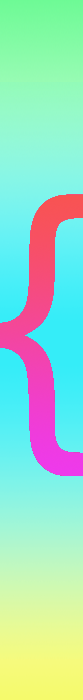
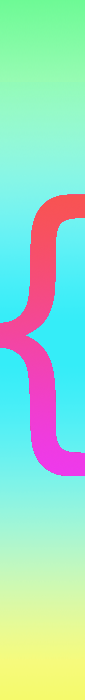
skobki

diff --git a/Homework/HM2/skob/skob.html b/Homework/HM2/skob/skob.html
@@ -4,30 +4,40 @@
 	<meta charset="UTF-8">
 	<meta http-equiv="X-UA-Compatible" content="IE=edge">
 	<meta name="viewport" content="width=device-width, initial-scale=1.0">
-	<title>Skob</title>
+
+	<title>skobki2</title>
 
 </head>
 <body>
-	<div>
-		<picture>
-			<img src="img_1/left_img_jpeg_80.jpeg" alt="left_piece_img" title=" left_piece_img_jpeg_80 = 4.65kb">
-			<img src="img_1/left_skob_png_80.png" alt="left_skob" title="left_skob_png_80 = 30.27kb">
-			<img src="img_1/center_img_jpeg_80.jpeg" alt="center_piece_img" title="center_piece_img_jpeg_80 = 3.04kb">
-			<img src="img_1/right_skob_png_80.png" alt="right_srob" title="right_skob_png_80 = 30.57kb">
-			<img src="img_1/right_img_jpeg_80.jpeg" alt="right_piece_img" title="right_piece_img_jpeg_80 = 4.98kb">
-		</picture>
+	<div align="center">
+		<figure>
+			<img src="img_1/left_img_jpeg_80.jpeg" alt="left_piece_img" title="110px*700px, jpeg_80 = 4.53kb"><img src="img_1/left_skob_png_80.png" alt="left_skob" title="85px*700px, png_80 = 30.2kb"><img src="img_1/center_img_jpeg_80.jpeg" alt="center_piece_img" title="109px*700px, jpeg_80 = 2.97kb"><img src="img_1/right_skob_png_80.png" alt="right_srob" title="86x*700px, png_80 = 30.4kb"><img src="img_1/right_img_jpeg_80.jpeg" alt="right_piece_img" title="110px*700px, jpeg_80 = 4.87kb">
+				<figcaption>
+					Согласно условию, "skobki2.png (500px*700px; 149kb )" должны быть преобразованы в как можно более компактную форму, но при этом, все границы должны оставаться такими же не размытыми и угловатыми, как есть на оригинальном изображении.<br>
+					Данное изображение было разрезано на 5-ть вертикальных частей, после чего, каждая из разрезанных частей была преобразована в форматы изображения более компактной формы с минимальными потерями в качестве, что в сумме составило - 72.97kb, и что на - 76.03kb меньше от размера оригинального изображения. 
+				</figcaption>
+		</figure>
+	</div>
 	
-	</div>
+	<hr><br><br>
 
 
-	<div>
-		<picture>
-			<img src="img_2/top_skob_jpeg_80.jpeg" alt="top_srob" title="верхняя часть img">
-			<img src="img_2/left_skob_jpeg_80.jpeg" alt="left_skob" title="левая часть img">
-			<img src="img_2/center_skob_png_80.png" alt="center_skob" title="центральная часть img">
-			<img src="img_2/right_skob_jpeg_80.jpeg" alt="right_srob" title="правая часть img">
-			<img src="img_2/bottom_skob_jpeg_80.jpeg" alt="bottom_srob" title="нижняя часть img">
-		</picture>
+	<div align="center">
+		<figure>
+			<div style="height: 194px;">
+				<img src="img_2/top_img_jpeg_80.jpeg" alt="top_piece_img" title="500px*194px, jpeg_80 = 4.42kb">
+			</div >
+				<div style="height: 282px;">
+					<img src="img_2/left_img_jpeg_80.jpeg" alt="left_piece_img" title="110px*282px, jpeg_80 = 2.19kb"><img src="img_2/left_skob_png_80.png" alt="left_skob" title="85px*282px, png_80 = 12.5kb"><img src="img_2/center_img_jpeg_80.jpeg" alt="center_piece_img" title="109px*282px, jpeg_80 = 1.62kb"><img src="img_2/right_skob_png_80.png" alt="right_srob" title="86px*282px, png_80 = 12.7kb"><img src="img_2/right_img_jpeg_80.jpeg" alt="right_piece_img" title="110px*282px, jpeg_80 = 2.42kb">
+				</div>
+					<div style="height: 224px;">
+						<img src="img_2/bottom_img_jpeg_80.jpeg" alt="bottom_piece_img" title="500px*224px, jpeg_80 = 5.16kb">
+					</div>
+						<figcaption>
+							Данное изображение было разрезано на 7-мь различных частей,  после чего, каждая из разрезанных частей была преобразована в форматы изображения более компактной формы с минимальными потерями в качестве, что в сумме составило - 41.01kb, и что на - 107,99kb меньше от размера оригинального изображения.<br>
+						</figcaption>
+		</figure>
 	</div>
+			
 </body>
 </html>

diff --git a/Homework/HM2/WebP/WebP.html b/Homework/HM2/WebP/WebP.html
@@ -4,12 +4,14 @@
 	<meta charset="UTF-8">
 	<meta http-equiv="X-UA-Compatible" content="IE=edge">
 	<meta name="viewport" content="width=device-width, initial-scale=1.0">
-	<title>WebP</title>
+
 	<style>
 		html{
 			font-size: 20px;
 		}
 	</style>
+
+	<title>WebP</title>
 </head>
 <body>
 	
